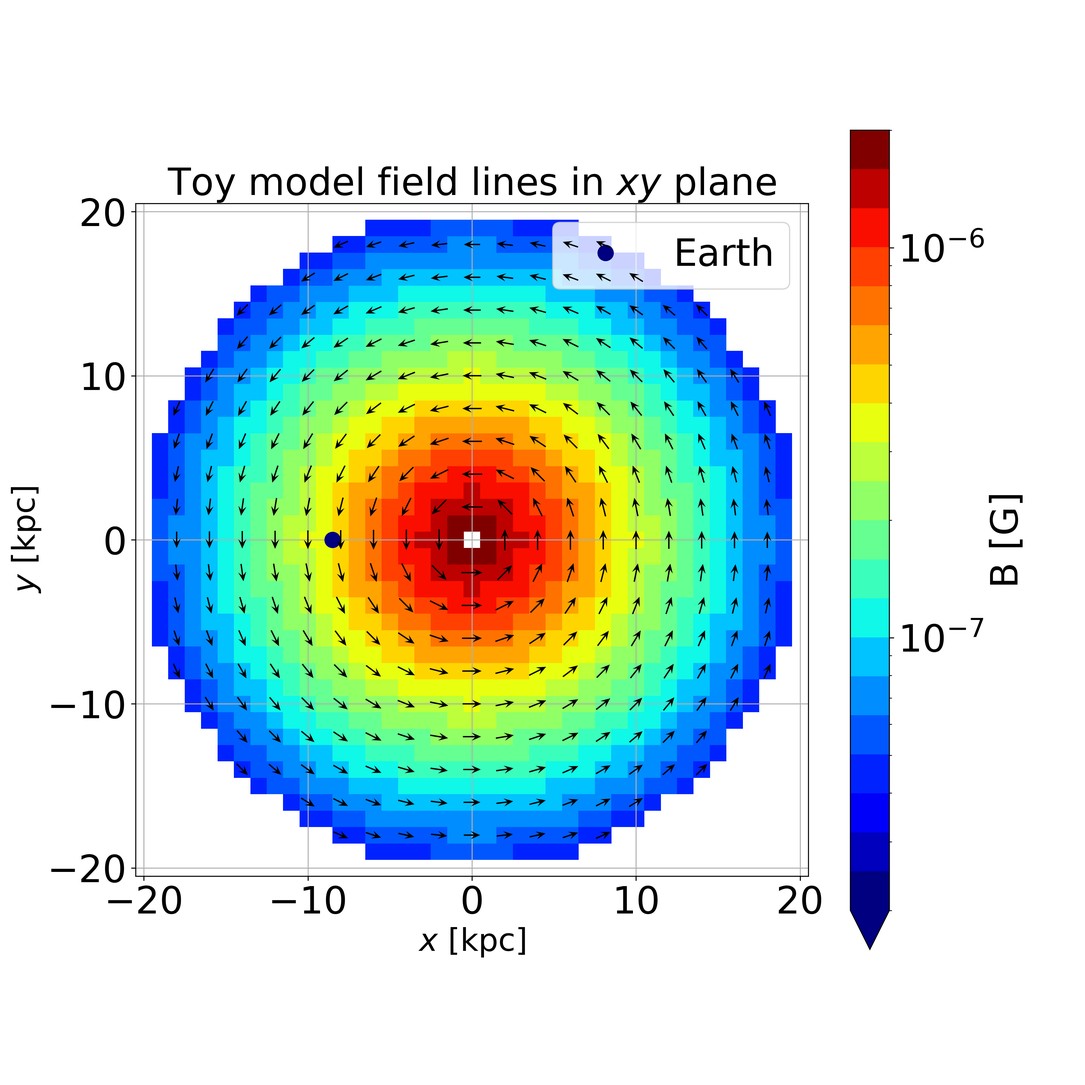
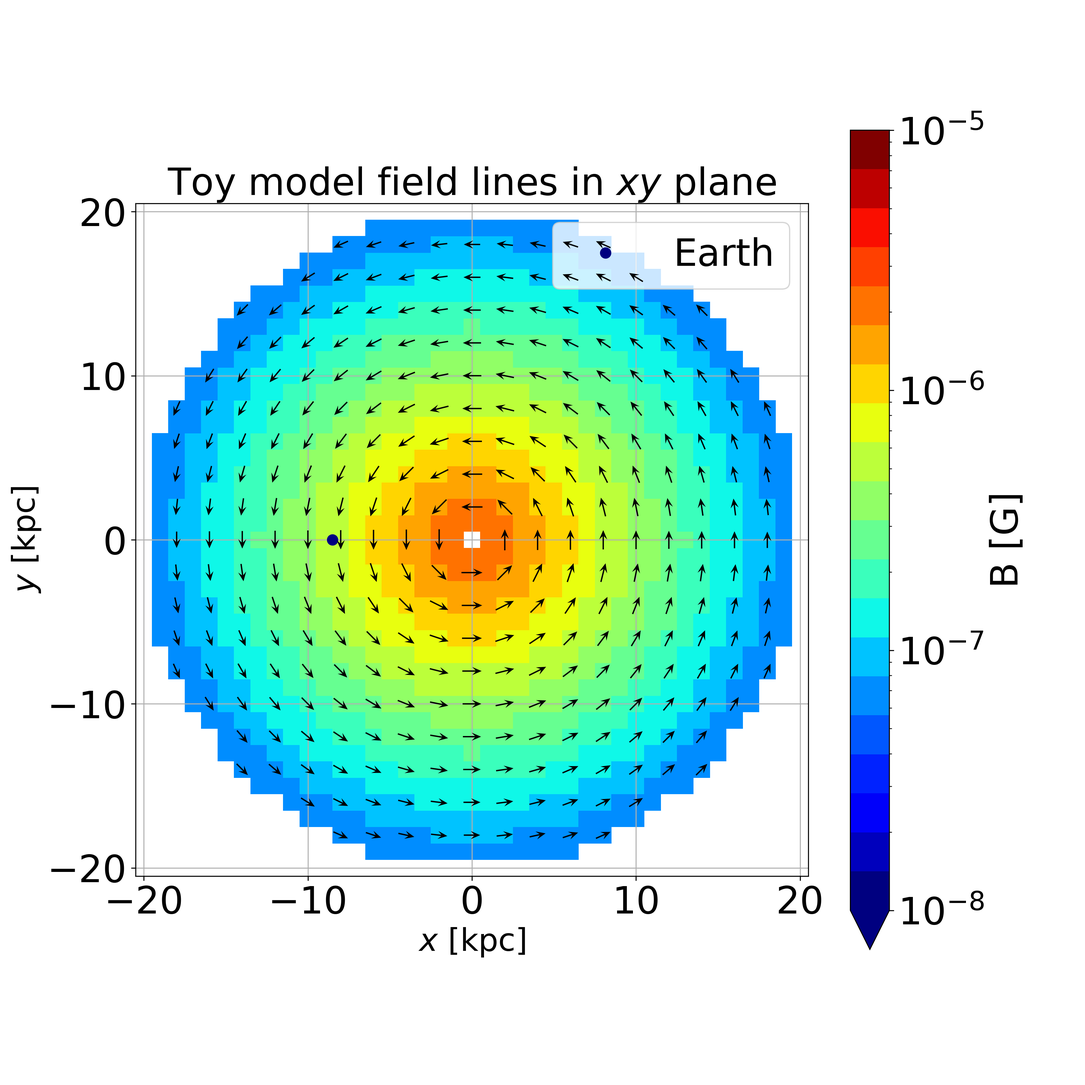
Changes made on April 25

diff --git a/main.tex b/main.tex
@@ -50,7 +50,9 @@ $^{3}$Department of Physics, Khalifa University, P.O. Box 127788, Abu Dhabi, Uni
 \maketitle
 
 \begin{abstract}
-We consider the synchrotron emission from electrons out in the Galactic halo region where the Fermi bubble structures reside. Utilising a simple analytical expression for the non-thermal electron distribution and a toy magnetic field model, we simulate polarised synchrotron emission maps at a frequency of 30~GHz. Comparing these maps with observational data, we obtain constraints on the parameters of our toy Galactic halo magnetic field model. Utilising this parameter value range for the toy magnetic field model, we determine the corresponding range of arrival directions and suppression factors of ultra high energy cosmic rays (UHECRs) from potential local source locations. We find high levels (down to 5\%) of flux suppression and large deflection angles ($>80^{\circ}$) for source locations whose line-of-sight pass through the Galactic halo bubble region. We conclude that the magnetic field out in this Galactic halo region can strongly dominate the level of deflection UHECR experience whilst propagating from local sources to Earth.
+We consider the synchrotron emission from electrons out in the Galactic halo region where the Fermi bubble structures reside. Utilising a simple analytical expression for the non-thermal electron distribution and a toy magnetic field model, we simulate polarised synchrotron emission maps at a frequency of 30~GHz. Comparing these maps with observational data, we obtain constraints on the parameters of our toy Galactic halo magnetic field model. Utilising this parameter value range for the toy magnetic field model, we determine the corresponding range of arrival directions and suppression factors of ultra high energy cosmic rays (UHECRs) from potential local source locations.
+
+We find high levels (down to 5\%) of flux suppression and large deflection angles ($>65^{\circ}$) for source locations whose line-of-sight pass through the Galactic halo bubble region. We conclude that the magnetic field out in this Galactic halo region can strongly dominate the level of deflection UHECR experience whilst propagating from local sources to Earth.
 \end{abstract}
 
 \begin{keywords}
@@ -104,10 +106,10 @@ For our toy model, we adopt an axisymmetric torroidal structured field along wit
 \begin{equation}\label{TM_equation}
 B_{\rm{tor}} = B_{\rm{str}} {\rm{e}}^{(-|z|/Z_{\rm{mag}})} {\rm{e}}^{(-z_{\rm{min}}/|z|)} {\rm{e}}^{(-|r|/R_{\rm{mag}})}.
 \end{equation}
-The structured field has 3 free parameters: $B_{\rm str}$ as the strength of the magnetic field and $R_{\rm {mag}}$ and $Z_{\rm {mag}}$ describing the radial and azimuthal cut off distances, respectively. The value of $z_{\rm min}$ = 100~pc, which dictates the cut in the Galactic plane, is fixed. The model spans radially up to 20~kpc with the observer being centered at Earth, (-8.5,0,0)~kpc. The direction of the toroidal field is orientated in opposite directions above and below the Galactic plane. A visualisation of our magnetic field in \textit{xy} and \textit{xz} cross-sections is shown in Fig.~\ref{fig:Vis_TM}. 
+The structured field has 3 free parameters: $B_{\rm str}$ as the strength of the magnetic field and $R_{\rm {mag}}$ and $Z_{\rm {mag}}$ describing the radial and azimuthal cut off distances, respectively. The value of $z_{\rm min}$ = 100~pc, which dictates the cut in the Galactic plane, is fixed. \Vasu{Changes added} The model spans radially up to 14~kpc from the Galactic center with the observer being centered at Earth, (-8.5,0,0)~kpc. The direction of the toroidal field is orientated in opposite directions above and below the Galactic plane. A visualisation of our magnetic field in \textit{xy} and \textit{xz} cross-sections is shown in Fig.~\ref{fig:Vis_TM}. 
 
 We use CRPropa~3 (\cite{CRPropa3_2016}) for generating turbulent fields with a power law spectrum, with the magnitude of this component being $B_{\rm{tur}}$. 
-The minimum and maximum values of wavelength to generate these fields are  $L_{\rm min}$ = 200~pc and $L_{\rm max}$ = 400~pc. For computational reasons we stick to this restricted dynamic range of $L_{\rm min}$ and $L_{\rm max}$. The turbulent field has effectively only 1 free parameter which is the magnitude of the turbulent field strength, $ B_{\rm tur}$, with the coherence length of the field being kept fixed at 150~pc. This value of $L_{\rm coh}$, although in the range of values considered (\cite{Ohno_1993, Chepurnov_2010, Haverkorn_2013, Giacinti_2018}), nevertheless may be too large. Regardless, for the sake of simplicity, we fix the coherence length at this length scale. In Appendix~\ref{Appendix_B} we show a power-spectrum plot for the turbulent magnetic field realisation adopted.
+The minimum and maximum values of wavelength to generate these fields are  $L_{\rm min}$ = 200~pc and $L_{\rm max}$ = 400~pc. For computational reasons we stick to this restricted dynamic range of $L_{\rm min}$ and $L_{\rm max}$. \Vasu{Changes added} In Appendix~\ref{Appendix_D} we discuss the effect of this small dynamic range in detail. The turbulent field has effectively only 1 free parameter which is the magnitude of the turbulent field strength, $ B_{\rm tur}$, with the coherence length of the field being kept fixed at 150~pc. This value of $L_{\rm coh}$, although in the range of values considered (\cite{Ohno_1993, Chepurnov_2010, Haverkorn_2013, Giacinti_2018}), nevertheless may be too large. Regardless, for the sake of simplicity, we fix the coherence length at this length scale. In Appendix~\ref{Appendix_B} we show a power-spectrum plot for the turbulent magnetic field realisation adopted.
 
 Since we focus only on the Galactic regions of the sky which probe the Galactic halo, we do not include any disc magnetic field component in this model. For the purposes of comparison, we use the JF12 model as a comparative reference since it is a widely known Galactic magnetic field model.
 However, it should be noted that the JF12 model was motivated by observations which masked out a large part of the Galactic bubble region that we focus on, and adopts magnetic fields strengths and spatial extensions both weaker and smaller than those suggested by the S-PASS observations \citep{Carretti_2013} in these regions.
@@ -136,7 +138,7 @@ It should be noted that in our description of the halo, it is assumed that both 
 \centering
 \includegraphics[width=0.49\linewidth]{Images/Linear_EdNdE.png}%
 \includegraphics[width = 0.49\linewidth]{Images/Log_EdNdE.png}
-\caption{An example of the electron distribution for $E_e = $10~GeV, $R_{\mathrm{el}} = 5$ kpc and $Z_{\mathrm{el}} = 7$~kpc in linear scale on the left and in log-scale on the right. The $C_\mathrm{norm}$ value for this plot is $10^{-12.43}~{\rm cm}^{-3}$ (see Table~\ref{Para_table}).}  
+\caption{An example of the electron distribution for $E_e = $10~GeV, $R_{\mathrm{el}} = 5$ kpc and $Z_{\mathrm{el}} = 6$~kpc in linear scale on the left and in log-scale on the right. The $C_\mathrm{norm}$ value for this plot is $10^{-11.72}~{\rm cm}^{-3}$ (see Table~\ref{Para_table}).}  
 \label{fig:electron_density}
 \end{figure*}
 \subsection{Synchrotron Emission}\label{Synchrotron_theory}
@@ -180,7 +182,7 @@ In the case of a mono-energetic electron energy distribution with density $n_{e}
 \frac{{\rm d}E_e^{\rm tot}}{{\rm d}t} = \frac{2\alpha}{3} n_{e}\left(\frac{B_{\perp}}{B_{\rm crit}}\right)^{2}\frac{E_{e}^{2}}{\hbar}%\left(\frac{B_{\perp}}{B_{\rm crit}\right)^{2}%\frac{E_{e}^{2}}{\hbar},
 \label{Itot_l}
 \end{equation}
-where the result $\int_0^{\infty} F(x) \rm{d}x = 8\pi/(9\sqrt{3})$ \citep{1959ApJ...130..241W} has been used. The above expressions can be used to compute the pitch angle averaged synchrotron cooling time ($\langle B_{\perp}^{2}\rangle = 2/3 B^{2}$) for electrons, given by $\tau_c = \frac{E_e}{{\rm d}E_e/{\rm d}t}$ \citep{Taylor_Matthews}.
+where the result $\int_0^{\infty} F(x) \rm{d}x = 8\pi/(9\sqrt{3})$ \citep{1959ApJ...130..241W} has been used. The above expressions can be used to compute the pitch angle averaged synchrotron cooling time  ($\langle B_{\perp}^{2}\rangle = 2/3 B^{2}$) for electrons in this unit system, given by $\tau_c = \frac{E_e}{{\rm d}E_e/{\rm d}t}$ \citep{Taylor_Matthews}.
 
 For clarity, several of the conventions we adopted are noted here. The parallel component of polarisation (${J_{\parallel}}$) is orientated in the same direction as  $\vec{B_{\perp}}$, and the perpendicular component of polarisation (${J_{\perp}}$) is perpendicular to $\vec{B_{\perp}}$. The Stokes parameters at each point along the line of sight can be written in terms of the intrinsic polarisation angle $\Psi^l_{\rm in}$ which is the angle between the line-of-sight perpendicular component of the magnetic field $B_{\perp}$ and Galactic south at each step. The conventions adopted here match those used by the Planck collaboration \citep{Planck_XIX} based on the $\rm HEALPix^3$~\footnote{\textcolor{purple}{https://healpix.jpl.nasa.gov/}} software by \cite{Healpix_2005}. For each step along the line of sight, both  ${J_{\perp}^l}$ and ${J_{\parallel}^l}$ are subsequently used to obtain the $Q$ and $U$ Stokes parameters. We obtain the values the intrinsic Stokes parameters $Q^{\rm tot}_{\rm in}$ and $U^{\rm tot}_{\rm in}$ by integrating over $Q$ and $U$ along the line of sight:
 
@@ -212,7 +214,10 @@ In Appendix~\ref{Appendix_A} an example case for these calculations is provided 
 %% Details of simulation like scanning range, cuts etc
 \subsubsection{Simulation setup for the polarised synchrotron emission}
 %% Grid details
-Utilising the setup described in Section~\ref{Methods}, we generate a synthetic polarised synchrotron emission map for each parameter set of our toy model. The toy model comprises of 5 free parameters, (see Table~\ref{Para_table}). The radial cut off of the magnetic field and electron distribution is kept identical ($R_{\mathrm{Mag}}$ = $R_{\mathrm{el}}$) and the same applies to the azimuthal cut-off ($Z_{\mathrm{Mag}}$ = $Z_{\mathrm{el}}$). The reason for this constraint is that the synchrotron radiation level depends on both the non-thermal electron density and the magnetic field strength. Thus, even if the spatial extend of the magnetic field differs from the electron distribution, one can only probe the magnetic field in the region where both the magnetic field and non-thermal electrons are present. For the spatial parameter scan, the parameter values scanned over for $R_{\mathrm{el}}$ and $Z_{\mathrm{el}}$ are 2~kpc to 19~kpc, with a scanning step size of 1~kpc. Likewise, the range over which both $B_{\rm str}$ and $B_{\rm tur}$ are scanned is 2$~\mu$G to 19$~\mu$G, with a step size of 1$~\mu$G. We calculate the polarised emission for one particular value of $\log_{10}(C_{\rm norm}[{\rm cm}^{-3}]) = -12.43$, and subsequently re-scale these results to obtain the polarised emission maps for different values of  $\log_{10}(C_{\rm norm} [{\rm cm}^{-3}])$, ranging this scan from $-9.5$ to $-15.5$ with a step size of $0.3$ (ie. in 20 steps).
+Utilising the setup described in Section~\ref{Methods}, we generate a synthetic polarised synchrotron emission map for each parameter set of our toy model. The toy model comprises of 5 free parameters, (see Table~\ref{Para_table}). The radial cut off of the magnetic field and electron distribution is kept identical ($R_{\mathrm{Mag}}$ = $R_{\mathrm{el}}$) and the same applies to the azimuthal cut-off ($Z_{\mathrm{Mag}}$ = $Z_{\mathrm{el}}$). The reason for this constraint is that the synchrotron radiation level depends on both the non-thermal electron density and the magnetic field strength. Thus, even if the spatial extend of the magnetic field differs from the electron distribution, one can only probe the magnetic field in the region where both the magnetic field and non-thermal electrons are present. 
+\Vasu{Changes added} 
+For the spatial parameter scan, the parameter values scanned over for $R_{\mathrm{el}}$ and $Z_{\mathrm{el}}$ are 2~kpc to 19~kpc, with a scanning step size of 1~kpc. 
+However, the range over which both $B_{\rm str}$ and $B_{\rm tur}$ are scanned is binned logarithmically with 30 bins per decade between 2$~\mu$G to 18$~\mu$G. Likewise, for the $C_{\rm norm}$ we scanned between $10^{-14} \rm cm^{-3}$ to $10^{-11} \rm cm^{-3}$ with 10 bins per decade. The line of sight integration is carried out up to 14~kpc away from the Galactic center encompassing well beyond the Galactic bubble region as reported by \citep{FERMI_2010} and \citep{eROSITA}.
 
 %% Polarised Skymap
 
@@ -231,7 +236,9 @@ In our study, we mask out three regions of the sky from our skymaps. The first o
 
 %% Skymap comparison and explanation of smoothening method
 
-To obtain the best-fit parameters for our model and their constraints, we ran a grid search over the 5 free parameters, sampling in total $2\times 10^{6}$ parameter sets. For each model parameter configuration, a synthetic skymap was generated using Healpix~\citep{Healpix_2005}, adopting a resolution with NSide = 32. Since the interests of our study are focused on large scale structures, both the synthetic skymaps and observational data were smoothed out, using a Gaussian kernel, on a size scale of $15^{\circ}$, to wash out smaller scale features. We then compare the simulated polarised emission with the Planck data at 30~GHz by evaluating the $\chi^{2}$ value of the model fit to the data. %To find the best fit parameters and their constraints, we carry out a grid search over the 5 free parameters, sampling in total $2\times 10^{6}$ parameter points.
+To obtain the best-fit parameters for our model and their constraints, we ran a grid search over the 5 free parameters, sampling in total $8\times 10^{6}$ parameter sets. For each model parameter configuration, a synthetic skymap was generated using Healpix~\citep{Healpix_2005}, adopting a resolution with NSide = 32. Since the interests of our study are focused on large scale structures, both the synthetic skymaps and observational data were smoothed out, using a Gaussian kernel, on a size scale of $15^{\circ}$, to wash out smaller scale features. We then compare the simulated polarised emission with the Planck data at 30~GHz by evaluating the $\chi^{2}$ value of the model fit to the data.\Vasu{Changes added}
+For this work we consciously decided to carry out the smoothening after calculating polarised emission from the Stokes Q and U maps for both synthetic data and observational data. Our future plan is to improve this method and look into other ways to compare observational and synthetic data.
+ %To find the best fit parameters and their constraints, we carry out a grid search over the 5 free parameters, sampling in total $2\times 10^{6}$ parameter points.
 
 \begin{table*}
 \centering
@@ -245,19 +252,19 @@ Parameter & Best-fit value &Description \\
 \hline
 \hline
 \rule{0pt}{3ex}
-$B_{\mathrm{str}} $& $3_{-1}^{+8} ~ \mu$G & Structured field strength \\
+$B_{\mathrm{str}} $& $3.96_{-1.96}^{+6.63} ~ \mu$G & Structured field strength \\
 \hline
 \rule{0pt}{3ex}
-$B_{\mathrm{tur}} $& $ 6_{-2}^{+12} ~\mu$G & Turbulent field strength\\
+$B_{\mathrm{tur}} $& $ 6.72_{-3.56}^{+9.97} ~\mu$G & Turbulent field strength\\
 \hline
 \rule{0pt}{3ex}
-$R_{\mathrm{Mag}}$ = $R_{\mathrm{el}}$ & $5_{-1}^{\infty}$~kpc & Radial cut off \\
+$R_{\mathrm{Mag}}$ = $R_{\mathrm{el}}$ & $5_{0}^{+1}$~kpc & Radial cut off \\
 \hline
 \rule{0pt}{3ex}
-$Z_{\mathrm{Mag}}$ = $Z_{\mathrm{el}}$ & $7_{-1}^{+1}$~kpc & Azimuthal cut off\\
+$Z_{\mathrm{Mag}}$ = $Z_{\mathrm{el}}$ & $6_{0}^{+1}$~kpc & Azimuthal cut off\\
 \hline
 \rule{0pt}{3ex} 
-${\rm{log_{10}}}(C_{\rm norm} [{\rm cm}^{-3}]$) & ${-12.43}_{{-1.31}}^{{+0.32}}$ & Electron normalisation at 10~GeV\\
+${\rm{log_{10}}}(C_{\rm norm} [{\rm cm}^{-3}]$) & ${-11.72}_{{-0.93}}^{{+0.62}}$ & Electron normalisation at 10~GeV\\
 \hline
 \end{tabular}
 \label{Para_table}
@@ -270,14 +277,19 @@ For our synchrotron emission study, we use the publicly available data from the 
 \subsection{Constraints on Magnetic Field Model}
 \label{Results}
 %% Details of uncertainities 
-We obtain 1$\sigma$ constraints on each of our model parameters (see Table~$\ref{Para_table}$). For the structured magnetic field strength, $B_{\rm str}$, we obtain the best-fit value of 3~$\mu$G with the upper extreme being 11~$\mu$G and the lower extreme 1~$\mu$G. Similarly, for the turbulent magnetic fields, $B_{\rm tur}$, the mean value is 6~$\mu$G with lower and upper extreme values of 4~$\mu$G and 12~$\mu$G, respectively. For the spatial extent of the field, we obtain a best-fit vale of 7~kpc for the azimuthal extent, $Z_{\rm Mag}/Z_{\rm el}$, with uncertainities of $\pm$ 1~kpc. These values are in agreement with the observations made by FERMI \citep{Su_2010}, S-PASS \citep{Carretti_2013} and eROSITA \citep{eROSITA}. The dominance of turbulent to structured fields are consistent with the findings from studies of other local galaxies \citep{Beck_NGC_6946,Tabatabaei_2008}. We do not, however, obtain an upper extreme value for $R_{\rm Mag}/R_{\rm el}$, only a lower extreme value of 4~kpc with the best-fit value being 5~kpc. Again, this best-fit value is in agreement with the radial extent as obtained by the observations.
+\subsubsection{Results with Galactic longitude cut of $90^\circ$}
+We obtain 1$\sigma$ constraints on each of our model parameters (see Table~$\ref{Para_table}$). For the structured magnetic field strength, $B_{\rm str}$, we obtain the best-fit value of 3.96~$\mu$G with the upper extreme being 10.59~$\mu$G and the lower extreme 2~$\mu$G. Similarly, for the turbulent magnetic fields, $B_{\rm tur}$, the mean value is 6.72~$\mu$G with lower and upper extreme values of 3.15~$\mu$G and 16.69~$\mu$G, respectively. For the spatial extent of the field, we obtain a best-fit vale of  5~kpc and 6~kpc for the radial ($R_{\rm Mag}/R_{\rm el}$) and azimuthal extent ($Z_{\rm Mag}/Z_{\rm el}$) respectively. We only find find an upper extreme value of $+$ 1~kpc for the spatial extent whereas the lower extreme remains to be the same as best-fit value. This is likely an effect of having larger bin-size. In case of the electron normalisation $\rm{log_{10}}C_{\rm norm}$, the best fit value obtained -11.72 with upper and lower extreme values being -11.0 and -12.65 respectively. The constraint values for all parameters are in agreement with the observations made by FERMI \citep{Su_2010}, S-PASS \citep{Carretti_2013} and eROSITA \citep{eROSITA}. The dominance of turbulent to structured fields are consistent with the findings from studies of other local galaxies \citep{Beck_NGC_6946,Tabatabaei_2008}.
 
 In Fig.~\ref{fig:Skymaps} the smoothened skymap obtained from the best-fit values of the parameters and the smoothened polarised Planck data is shown along with the residuals. The best-fit values used for the parameters are provided in Table~\ref{Para_table}. 
 %% Polarisation fraction
 The polarisation fraction obtained by our best-fit toy-model, given in Fig.~\ref{fig:Skymaps}, was calculated taking the ratio of the polarised to the total intensity. The polarisation fraction for the best-fit toy model is comparable to the values as seen in the observation data of \citet{WMAP_Page} and \citet{Carretti_2013}.
 
+\Vasu{Changes added}
+\Vasu{I have put the part of turbulent fields with exponential cut off in the comment section below. Please look at the raw tex file for it. May be we can put this in the appendix?}
 
+% \subsubsection{Results with cut off in turbulent fields}
 
+% Another scenario that we tested was adding and exponential cut-off ($B_{\rm tur} {\rm{e}}^{(-|z|/Z_{\rm{mag}})} {\rm{e}}^{(-|r|/R_{\rm{mag}}}) $) to the turbulent fields similar to the structured fields. For a cut of $45^{\circ}$ in Galactic longitude, we obtain $B_{\rm str}$ only an upper bound constraint of 4.96~$\mu$G with lower bound lying at 2~$\mu$G. The turbulent fields $B_{\rm tur}$ seem to have no constraints with upper and lower bound being 18~$\mu$G and 2~$\mu$G respectively. Like wise the constraint of the spatial parameters also is weakened with the radial constraint lying between 10~kpc and 19~kpc and the azimuthal constraints lying between 2~kpc and 14~kpc. The large uncertainities in the radial extent are due to the longitudinal cuts since beyond 10~kpc its not possible for the fitter to differentiate between different radial cuts. \Vasu{should be discussed} Similarly the azimuthal 
 
 %\newpage
 
@@ -295,19 +307,20 @@ UHECRs experience deflection effects when propagating through both extragalactic
 
 We use the publicly available cosmic ray propagation code CRPropa~3~\citep{CRPropa3_2016} for studying the effects of toy model magnetic fields on the arrival directions of cosmic rays. Within this software we use the Boris pusher scheme in order to ensure a particle's trajectory evolution satisfies the Lorentz force equation. It is important to note that CRPropa conserves the total energy of each particle during the propagation.
 %% Setup description
-We propagate $10^7$ cosmic rays starting at Earth isotropically through the toy model using the backtracking scheme out to a distance of 20~kpc from the Galactic center. We use nitrogen as the choice of our cosmic ray particles at 40~EeV, with rigidity $R\approx 6 \times 10^{18}$~V. 
+
+We propagate $10^7$ cosmic rays starting at Earth isotropically through the toy model using the backtracking scheme out to a distance of 20~kpc from the Galactic center. However, we turn-off the turbulent fields beyond 14~kpc from the Galactic center, this is the same distance we also chose for our synthetic synchrotron maps in \ref{Methods}. We use nitrogen as the choice of our cosmic ray particles at 40~EeV, with rigidity $R\approx 6 \times 10^{18}$~V. 
 
 \subsection{Effects of the Magnetic Field Model on UHECR Arrival Directions}
 \begin{figure*}
 \centering
-\includegraphics[width=0.49\linewidth]{Images/Log_Bins_180_Historgam_BF_N2_Str_Tur_TM_40_EeV.png}
-\includegraphics[width=0.49\linewidth]{Images/Bins_180_BF_N2_CenA_NGC253_Str_Tur_TM_40_EeV.png}\\
-\includegraphics[width=0.49\linewidth]{Images/Log_Bins_180_Historgam_LB_N2_Str_Tur_TM_40_EeV.png}
-\includegraphics[width=0.49\linewidth]{Images/Bins_180_LB_N2_CenA_NGC253_Str_Tur_TM_40_EeV.png}\\
-\includegraphics[width=0.49\linewidth]{Images/Log_Bins_180_Historgam_UB_N2_Str_Tur_TM_40_EeV.png}
-\includegraphics[width=0.49\linewidth]{Images/Bins_180_UB_N2_CenA_NGC253_Str_Tur_TM_40_EeV.png}\
+\includegraphics[width=0.49\linewidth]{Images/AD/Obs_20_Rgc_14kpc_Bstr_3.96_Btur_6.72_R_5_Z_6_New_Grid_Imposed_Log_Bins_180_Historgam_LB_N2_Str_Tur_TM_40_EeV.png}
+\includegraphics[width=0.49\linewidth]{Images/AD/Rgc_14kpc_BF_Bins_180Bs_3.96_Btur_6.72_N2_CenA_NGC253_Str_Tur_TM_40_EeV.png}\\
+\includegraphics[width=0.49\linewidth]{Images/AD/Bstr_2.0_Btur_3.15_R_5_Z_6_New_Grid_Imposed_Log_Bins_180_Historgam_LB_N2_Str_Tur_TM_40_EeV.png}
+\includegraphics[width=0.49\linewidth]{Images/AD/LB_Bins_180Bs_2.0_Btur_3.15_N2_CenA_NGC253_Str_Tur_TM_40_EeV.png}\\
+\includegraphics[width=0.49\linewidth]{Images/AD/Rgc_14kpc_Bstr_10.59_Btur_15.69_R_6_Z_7_New_Grid_Imposed_Log_Bins_180_Historgam_LB_N2_Str_Tur_TM_40_EeV.png}
+\includegraphics[width=0.49\linewidth]{Images/AD/RGC_14kpc_UB_Bins_180Bs_10.59_Btur_15.69_N2_CenA_NGC253_Str_Tur_TM_40_EeV.png}\
 \hspace*{+9cm}                                      
-\caption{{\bf Left:} magnification maps of the extragalactic sky obtained by backtracking an isotropic distribution of cosmic rays (with $R \approx 6 \times 10^{18}$~V) from Earth. These maps are normalised relative to results obtained without magnetic fields with the same total number of events. {\bf Right:} the binned arrival directions of the cosmic rays (with $R \approx 6 \times 10^{18}$~V) from two candidate sources: Cen~A and NGC~253. In the legend we denote for both sources, the ratio ('Magn.') of the number of backtracked cosmic rays within $5^{\circ}$ from the source location for the magnetic field model configuration, to the equivalent number obtained in the absence of magnetic fields. The number of particles in each bin are again normalised by the peak value of a binned histogram obtained without magnetic fields, as represented by the grey colour bars. The mean direction in each plot is denoted by a \tikzcircle[black,fill = gray]{2pt}. \textbf{Top row:} results obtained for best-fit magnetic field parameters, {\textbf{middle row:} lower extreme magnetic field parameters} \& {\textbf{bottom row:} upper extreme magnetic field parameters ($R_{\rm Mag} = $ 20~kpc adopted).}
+\caption{{\bf Left:} magnification maps of the extragalactic sky obtained by backtracking an isotropic distribution of cosmic rays (with $R \approx 6 \times 10^{18}$~V) from Earth. These maps are normalised relative to results obtained without magnetic fields with the same total number of events. {\bf Right:} the binned arrival directions of the cosmic rays (with $R \approx 6 \times 10^{18}$~V) from two candidate sources: Cen~A and NGC~253. In the legend we denote for both sources, the ratio ('Magn.') of the number of backtracked cosmic rays within $5^{\circ}$ from the source location for the magnetic field model configuration, to the equivalent number obtained in the absence of magnetic fields. The number of particles in each bin are again normalised by the peak value of a binned histogram obtained without magnetic fields, as represented by the grey colour bars. The mean direction in each plot is denoted by a \tikzcircle[black,fill = gray]{2pt}. \textbf{Top row:} results obtained for best-fit magnetic field parameters, {\textbf{middle row:} lower extreme magnetic field parameters} \& {\textbf{bottom row:} upper extreme magnetic field parameters ($R_{\rm Mag} = $ 7~kpc adopted).}
 }
 
 \label{fig:AD_Plots}
@@ -323,40 +336,42 @@ In figure~\ref{fig:AD_Plots} we show:
     of cosmic rays from UHECRs candidate sources Cen~A and NGC~253. Similar to the above case of the magnification maps we backtrack cosmic rays starting from Earth until they reached an escape radius of 20~kpc from the Galactic centre. The cosmic ray arrival directions from a region of $5^{\circ}$ from the source are then binned.  Like the magnification maps, we normalise these maps to the peak value of the histogram densities in the source region for the case of no magnetic fields.  This gives a normalised value of the number of hits ('Magn.') obtained. Analogous to the magnification maps the \textbf{top}, \textbf{middle} and \textbf{bottom} plots denote the 'Best-fit', 'Minimum' and 'Maximum' cases, respectively. 
     \end{enumerate}
 
-The deflections of UHECR in the Galactic magnetic field are sensitive to both the structured and turbulent field components of the field in different ways. One of the first effects worth noting is the {\bf suppression effect} for cosmic rays from certain regions of the sky. For the 'Maximum' toy model magnetic field model giving rise to the largest suppression factor level in the magnification map in comparison to the 'Best-fit' and 'Minimum' cases (see Table~\ref{Para_table}). These suppression and enhancement of UHECRs from different regions of the sky are also seen in the skymaps provided for two potential UHECR sources, namely Cen~A (lon = $\rm -50.49^{\circ}$, lat = $\rm 19.42^{\circ}$) and NGC~253 (lon = $\rm 97.36^{\circ}$, lat = $\rm -87.96^{\circ}$). Because of their positions in the sky, both of these sources lie in the suppression region of the magnification maps for both the 'Best-fit' and 'Maximum' cases. In particular, we note that for NGC~253, the 'Maximum' toy model case leads to a suppression level of $\approx 5\%$ of the level that would arrive for the no magnetic field case, and $\approx 40\%$ for Cen~A.
+The deflections of UHECR in the Galactic magnetic field are sensitive to both the structured and turbulent field components of the field in different ways. One of the first effects worth noting is the {\bf suppression effect} for cosmic rays from certain regions of the sky. For the 'Maximum' toy model magnetic field model giving rise to the largest suppression factor level in the magnification map in comparison to the 'Best-fit' and 'Minimum' cases (see Table~\ref{Para_table}). These suppression and enhancement of UHECRs from different regions of the sky are also seen in the skymaps provided for two potential UHECR sources, namely Cen~A (lon = $\rm -50.49^{\circ}$, lat = $\rm 19.42^{\circ}$) and NGC~253 (lon = $\rm 97.36^{\circ}$, lat = $\rm -87.96^{\circ}$). Because of their positions in the sky, both of these sources lie in the suppression region of the magnification maps for both the 'Best-fit' and 'Maximum' cases. In particular, we note that for NGC~253, the 'Maximum' toy model case leads to a suppression level of $\approx 5\%$ of the level that would arrive for the no magnetic field case, and $\approx 26\%$ for Cen~A.
 
 A second effect introduced by the turbulent magnetic fields is the {\bf spreading effect} (mean deflection angle) of cosmic rays around their originating source direction. In order to quantify this effect, a list is provided below of the mean deflection angle, ($\sigma_{\rm source}$), between the mean direction and the arrival directions of the cosmic rays for the two candidate sources considered:
+\newline
+\Vasu{Changes added here}
 \begin{itemize}
-        \item Best fit - $\sigma_{\rm NGC~253} = 38^{\circ}$ , {$\sigma_{\rm Cen~A} = 38^{\circ}$}
-        \item Minimum - $\sigma_{\rm NGC~253} = 27^{\circ}$ , $\sigma_{\rm Cen~A} = 30^{\circ}$
-        \item Maximum - $\sigma_{\rm NGC~253} = 83^{\circ}$, $\sigma_{\rm Cen~A} = 69^{\circ}$
+        \item Best fit - $\sigma_{\rm NGC~253} = 33^{\circ}$ , {$\sigma_{\rm Cen~A} = 35^{\circ}$}
+        \item Minimum - $\sigma_{\rm NGC~253} = 18^{\circ}$ , $\sigma_{\rm Cen~A} = 21^{\circ}$
+        \item Maximum - $\sigma_{\rm NGC~253} = 67^{\circ}$, $\sigma_{\rm Cen~A} = 59^{\circ}$
 \end{itemize}
 
-In comparison to the magnitude of these spreading angles, the mean deflection angle for Cen~A and NGC~253 from the JF12 torroidal halo field (JF12 halo) \citep{JF12}  are  $\sigma_{\rm NGC~253} = 9^{\circ}$ , and {$\sigma_{\rm Cen~A} = 22^{\circ}$}.  The spread of the cosmic rays obtained for our toy model are therefore potentially considerably larger (up to 5-10 times bigger) than those obtained for the JF12 toroidal halo. The primary driver of this difference is that our toy model possesses a larger level of turbulent magnetic fields than structured fields. It is also worth noting that the mean deflection angle of Cen A ($\sigma_{\rm Cen~A} = 38^{\circ}$) for the 'Best-fit' case of our toy model is comparable with the Pierre Auger Observatory (PAO) observations~\citep{Auger_ICRC_2021}. 
+In comparison to the magnitude of these spreading angles, the mean deflection angle for Cen~A and NGC~253 from the JF12 torroidal halo field (JF12 halo) \citep{JF12}  are  $\sigma_{\rm NGC~253} = 9^{\circ}$ , and {$\sigma_{\rm Cen~A} = 22^{\circ}$}.  The spread of the cosmic rays obtained for our toy model are therefore potentially considerably larger (up to 5-10 times bigger) than those obtained for the JF12 toroidal halo. The primary driver of this difference is that our toy model possesses a larger level of turbulent magnetic fields than structured fields. It is also worth noting that the mean deflection angle of Cen A ($\sigma_{\rm Cen~A} = 35^{\circ}$) for the 'Best-fit' case of our toy model is comparable with the Pierre Auger Observatory (PAO) observations~\citep{Auger_ICRC_2021}. 
 
 Additional to this spreading effect, the presence of a structured field component in the magnetic field model leads to the {\bf coherent deflection} of the mean direction of the ensemble of cosmic rays away from the source direction. Following the propagation of cosmic rays from the two candidate source NGC~253 and Cen~A, the mean source position (lon, lat) for the three cases are as follows:
 \begin{itemize}
-    \item Best-fit - NGC~253: ($2^{\circ}$,$-72^{\circ}$) \& Cen~A: ($-45^{\circ}$,$10^{\circ}$) 
-    \item Minimum - NGC~253: ($9^{\circ}$,$-78^{\circ}$) \& Cen~A: ($-39^{\circ}$,$16^{\circ}$) 
-    \item Maximum - NGC~253: ($41^{\circ}$,$-19^{\circ}$) \& Cen~A: ($-53^{\circ}$,$1^{\circ}$) 
+    \item Best-fit - NGC~253: ($5^{\circ}$,$-65^{\circ}$) \& Cen~A: ($-48^{\circ}$,$8^{\circ}$) 
+    \item Minimum - NGC~253: ($-3^{\circ}$,$-63^{\circ}$) \& Cen~A: ($-35^{\circ}$,$12^{\circ}$) 
+    \item Maximum - NGC~253: ($17^{\circ}$,$-40^{\circ}$) \& Cen~A: ($-50^{\circ}$,$13^{\circ}$) 
 \end{itemize}
 
 In comparison, the mean shift positions from the JF12 halo model for the two sources are are  NGC~253: ($1^{\circ}$,$-33^{\circ}$) \& Cen~A: ($-47^{\circ}$,$-1^{\circ}$).
 
-Additionally, for the case of cosmic rays from NGC~253, an interesting difference between our toy model and the JF12 halo model is worth noting. For the JF12 halo model (see Appendix~\ref{Appendix_C}), the mean position of cosmic rays from NGC~253 is situated at roughly a latitude of $-33^{\circ}$ (also seen in \citet{Arjen_2021}). In contrast to this, in our 'Best-fit' toy model case this value is at approximately $-72^{\circ}$, which would be in better agreement with the PAO observations~\citep{Auger_Starburst2018} if this southern Galactic hemisphere hotspot does indeed originate from NGC~253. This difference in the position of mean direction is again an effect of our toy model having weaker structured fields in comparison to turbulent fields (see Table ~\ref{Para_table}), since structured fields dictate the extent of the mean deflection angle from the source position. 
+Additionally, for the case of cosmic rays from NGC~253, an interesting difference between our toy model and the JF12 halo model is worth noting. For the JF12 halo model (see Appendix~\ref{Appendix_C}), the mean position of cosmic rays from NGC~253 is situated at roughly a latitude of $-33^{\circ}$ (also seen in \citet{Arjen_2021}). \Vasu{Changed here} In contrast to this, in our 'Best-fit' toy model case this value is at approximately $-65^{\circ}$, which would be in better agreement with the PAO observations~\citep{Auger_Starburst2018} if this southern Galactic hemisphere hotspot does indeed originate from NGC~253. This difference in the position of mean direction is again an effect of our toy model having weaker structured fields in comparison to turbulent fields (see Table ~\ref{Para_table}), since structured fields dictate the extent of the mean deflection angle from the source position. 
 
-The suppression, spreading and coherent deflection effects place challenges on the association of cosmic rays to their originating sources. It can be seen that in the 'Maximum' toy model magnetic field would make associating cosmic rays to their source extremely challenging at the energies considered, whereas the 'Best-fit' or 'Minimum' cases make this possible. This is due to the fact that the structured fields are responsible for the overall direction of the particle deflections, whereas turbulent fields are responsible for spreading out the directions of the particle deflections around this overall deflected direction. For cases in which the turbulent magnetic field component dominates, and this field strength component is large, the source directions can be completely washed-out. This washing-out of the source association is evident for the 'Maximum' case in Fig.~\ref{fig:AD_Plots}, cosmic rays from sources like NGC~253 are largely deflected from the source position by the magnetic field structure with a mean deflection angle of $\sigma_{\rm NGC~253} = 83^{\circ}$. Likewise, in the case of Centaurus~A the final positions are spread out over a large region of the sky with a mean deflection angle of $\sigma_{\rm Cen~A} = 69^{\circ}$, making association with the source position challenging. From both the magnification and arrival direction maps in Fig.~\ref{fig:AD_Plots}, it is evident that the best-fit and lower extreme ('Minimum') parameters allow some degree of association of the deflected UHECRs with their original source position. However, in the upper extreme ('Maximum') parameters, such a connection between the point of origin of cosmic rays and their final positions is heavily erased. 
+The suppression, spreading and coherent deflection effects place challenges on the association of cosmic rays to their originating sources. It can be seen that in the 'Maximum' toy model magnetic field would make associating cosmic rays to their source extremely challenging at the energies considered, whereas the 'Best-fit' or 'Minimum' cases make this possible. This is due to the fact that the structured fields are responsible for the overall direction of the particle deflections, whereas turbulent fields are responsible for spreading out the directions of the particle deflections around this overall deflected direction. For cases in which the turbulent magnetic field component dominates, and this field strength component is large, the source directions can be completely washed-out. This washing-out of the source association is evident for the 'Maximum' case in Fig.~\ref{fig:AD_Plots}, cosmic rays from sources like NGC~253 are largely deflected from the source position by the magnetic field structure with a mean deflection angle of $\sigma_{\rm NGC~253} = 67^{\circ}$. Likewise, in the case of Centaurus~A the final positions are spread out over a large region of the sky with a mean deflection angle of $\sigma_{\rm Cen~A} = 59^{\circ}$, making association with the source position challenging. From both the magnification and arrival direction maps in Fig.~\ref{fig:AD_Plots}, it is evident that the best-fit and lower extreme ('Minimum') parameters allow some degree of association of the deflected UHECRs with their original source position. However, in the upper extreme ('Maximum') parameters, such a connection between the point of origin of cosmic rays and their final positions is heavily erased. 
 
 \section{Conclusions}
 \label{Conclusions}
 
-Utilising our toy model for the Galactic halo magnetic field, and making comparisons of the synchrotron emission predicted by it to the Planck 30~GHz data, we explore the region of model parameters capable of providing a good description of the data. Significant evidence is found for the presence of an extended magnetic field component out in the Galactic halo region. Our results are compatible with the Galactic halo magnetic field extending to 7~kpc in height above the Galactic disc. The total magnetic field content in the halo region from our model fits is $\approx 10^{55}$~ergs (with a comparable total energy in 1~GeV cosmic ray protons of $\approx 4\times 10^{55}$~ergs). We note that these values are comparable with observational inference made in \cite{eROSITA} which indicated the presence of some $10^{56}$~ergs of thermal particles in the Galactic halo.
+Utilising our toy model for the Galactic halo magnetic field, and making comparisons of the synchrotron emission predicted by it to the Planck 30~GHz data, we explore the region of model parameters capable of providing a good description of the data. Significant evidence is found for the presence of an extended magnetic field component out in the Galactic halo region. Our results are compatible with the Galactic halo magnetic field extending to 6~kpc in height above the Galactic disc. The total magnetic field content in the halo region from our model fits is $\approx 10^{55}$~ergs (with a comparable total energy in 1~GeV cosmic ray protons of $\approx 6\times 10^{55}$~ergs). We note that these values are comparable with observational inference made in \cite{eROSITA} which indicated the presence of some $10^{56}$~ergs of thermal particles in the Galactic halo.
 In comparison to these energy contents, the total magnetic field energy content in the halo field component of the JF12 model is $4\times 10^{54}$~ergs and $3\times  10^{54}$~ergs for the toroidal halo and X-field respectively \citep{Taylor_2019}.
 
 Using the maximum and minimum constraints on the magnetic field model parameter values, the range of deflection that UHECRs experience in passing through such Galactic halo magnetic field structure was subsequently investigated. A significant range in predictions of both: a) the magnification of different regions of the extragalactic sky, and b) the deflection of cosmic rays arriving from different local extragalactic sources was found. The predictions from our magnetic field model are also in agreement with PAO observations~\citep{Auger_Starburst2018,Auger_ICRC_2021}, for both the hotspot around Cen~A and the potential hotspot from NGC~253.
 
 \section*{Data availability}
-This study was done using the publicly available Planck data \hyperlink{Planck}{http://pla.esac.esa.int/pla/}. The codes used for the cosmic ray propagation was CRPropa3 \citep{CRPropa3_2016} which is also a publicly available software. The codes used for the generation of synthetic synchrotron maps can be made available upon request to the corresponding author. 
+This study was done using the publicly available Planck data \hyperlink{Planck}{http://pla.esac.esa.int/pla/}. The codes used for the cosmic ray propagation was CRPropa 3 \citep{CRPropa3_2016}\footnote{\textcolor{purple}{https://crpropa.github.io/CRPropa3/index.html}} which is also a publicly available software. The codes used for the generation of synthetic synchrotron maps can be made available upon request to the corresponding author. 
 
 \section*{Acknowledgements}
 V.~Shaw would like to thank Mike Peel from the Planck Collaboration for helpful discussions about the Planck data.
@@ -414,5 +429,17 @@ We calculate the arrival directions of cosmic rays for two candidate sources, Ce
  \caption{Arrival direction map of cosmic rays (with $R \approx 6 \times 10^{18}$~V) deflected from the JF12 halo for two potential UHECR sources. It can be seen that the mean direction of the deflection for the JF12 toroidal halo is at a higher latitude than for the toy model, shown in Fig.~\ref{fig:AD_Plots}.}
 \label{JF12_AD}
 \end{figure*}
+\section{Turbulent Field}
+
+\label{Appendix_D}
+We adopt a narrow range wavelength range for the turbulent fields $L_{\rm min}=200$~pc and $L_{\rm max}=400$~pc. This was mainly done due to computational limitations and is similar to what was adopted by \citep{West_Helicity}. The effect of this truncation on the turbulence power spectra can be quantified. The energy density in the turbulent modes is given by:
+\begin{equation}
+    \delta B^{2} = \int _{L_{\rm min}}^{L_{\rm max}} \frac{\delta B^{2}}{\rm{d}L}{\rm{d}}L = \frac{B_{0}^{2}}{L_{\rm max}}\int  _{L_{\rm min}}^{L_{\rm max}}\left(\frac{L}{L_{\rm max}}\right)^{q-2} dL
+\end{equation}
+\begin{equation}
+  \delta B^{2}  =\frac{B_{0}^{2}}{q-1}\left[1-\left(\frac{L_{\rm min}}{L_{\rm max}}\right)^{q-1}\right] 
+\end{equation}
+Usually (for typical values of the turbulence cascade index, $q$,
+considered) this integral is insensitive to $L_{\rm min}$ , being dominated by the longest mode values, so where one truncates the lower end of the integral has only a small effect.
 
 \end{document}
